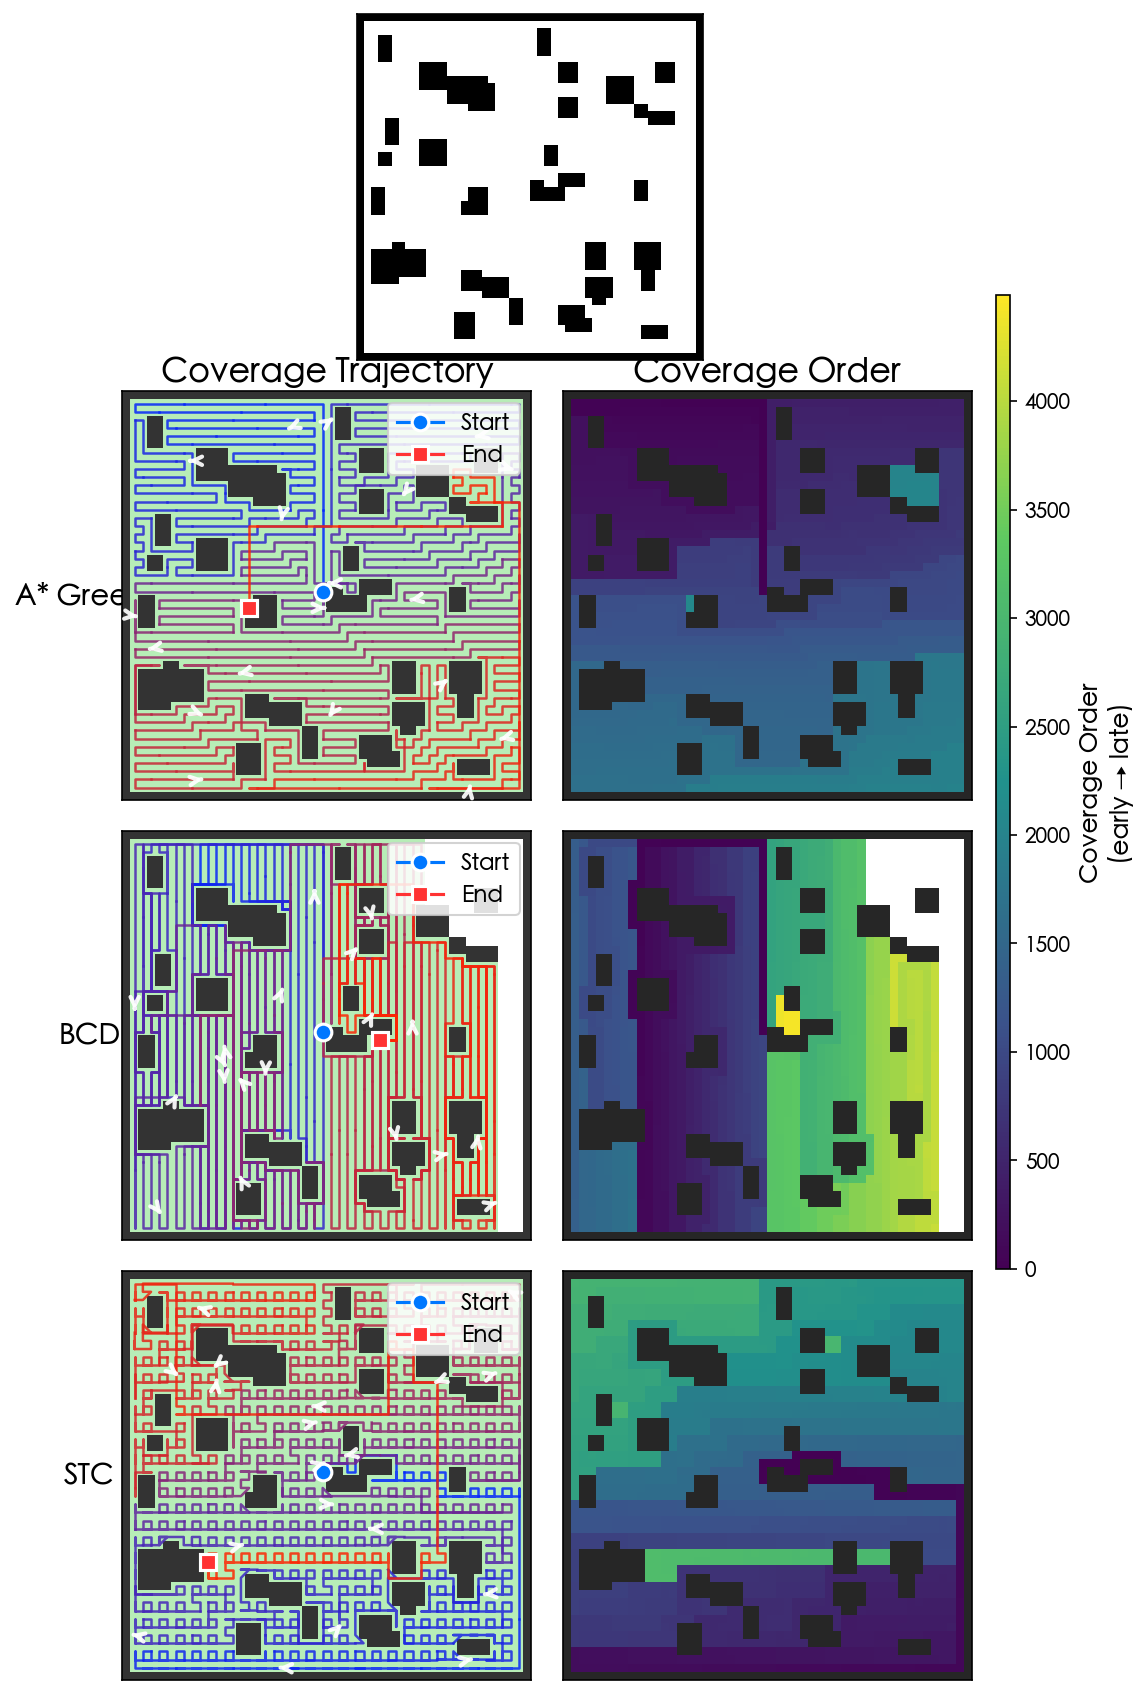
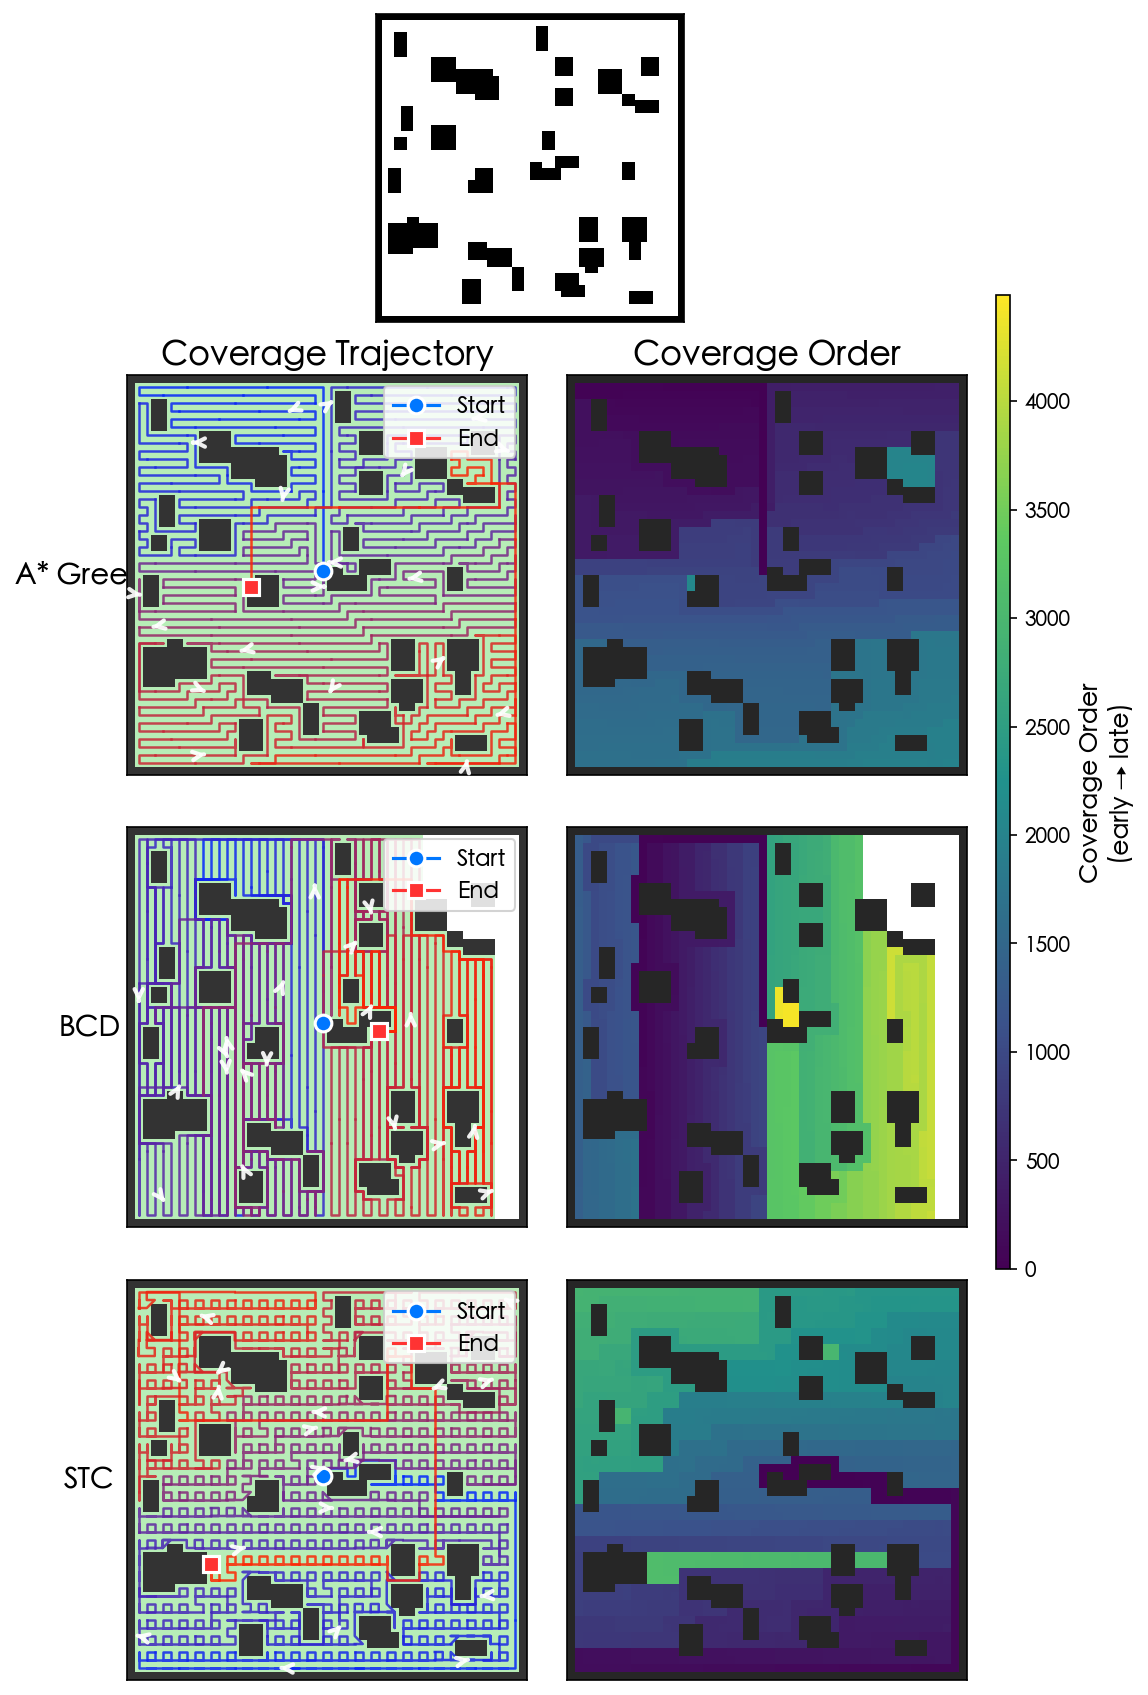
Increase hspace 0.08→0.14 to prevent title overlap

diff --git a/visualization/plotter.py b/visualization/plotter.py
@@ -141,9 +141,9 @@ class CoveragePlotter:
 
         fig = plt.figure(figsize=(fig_w, fig_h))
         gs = GridSpec(n + 1, 3,
-                      height_ratios=[0.22] + [0.26] * n,
+                      height_ratios=[0.20] + [0.26] * n,
                       width_ratios=[0.04, 1, 1],
-                      hspace=0.08, wspace=0.06)
+                      hspace=0.14, wspace=0.06)
 
         # Row 0: original map
         ax_map = fig.add_subplot(gs[0, :])
